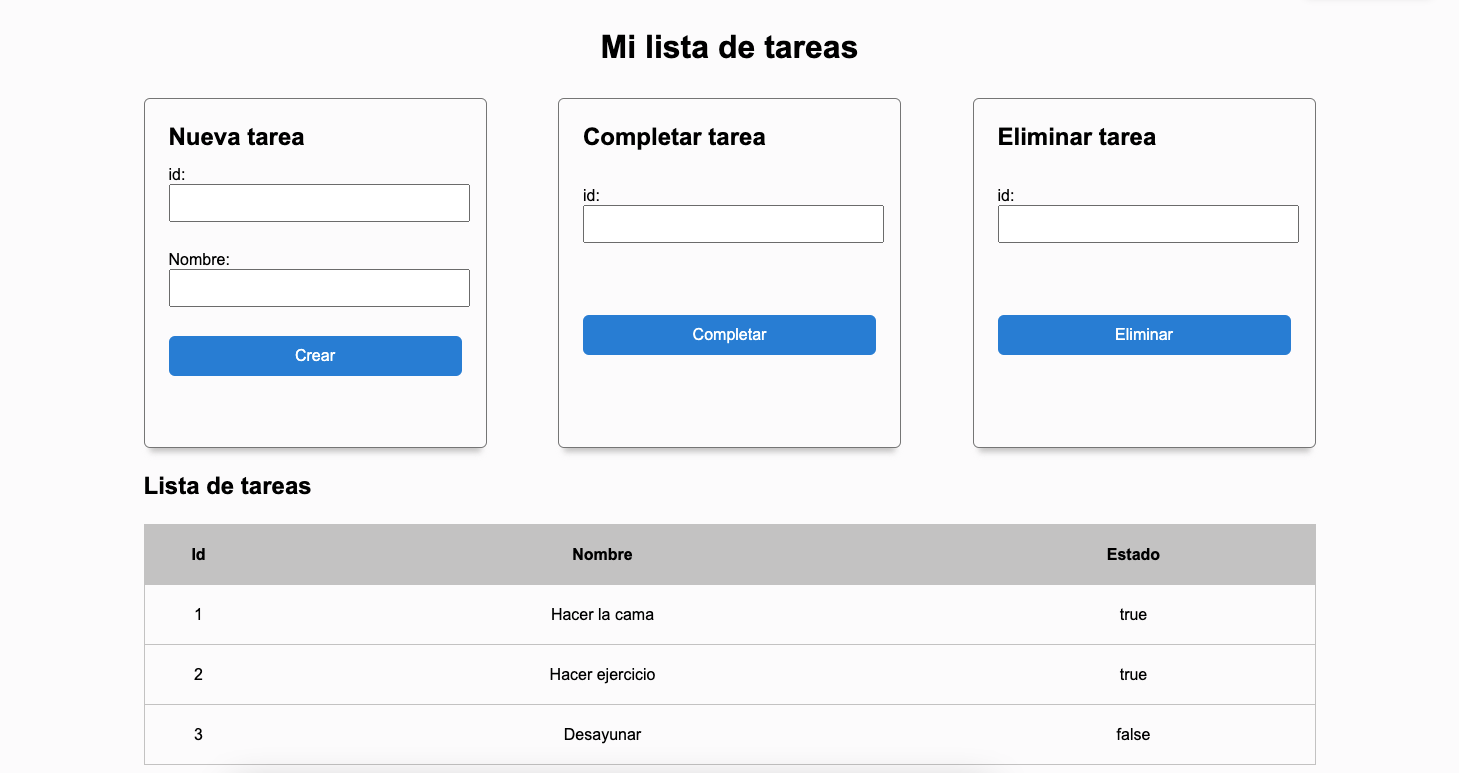
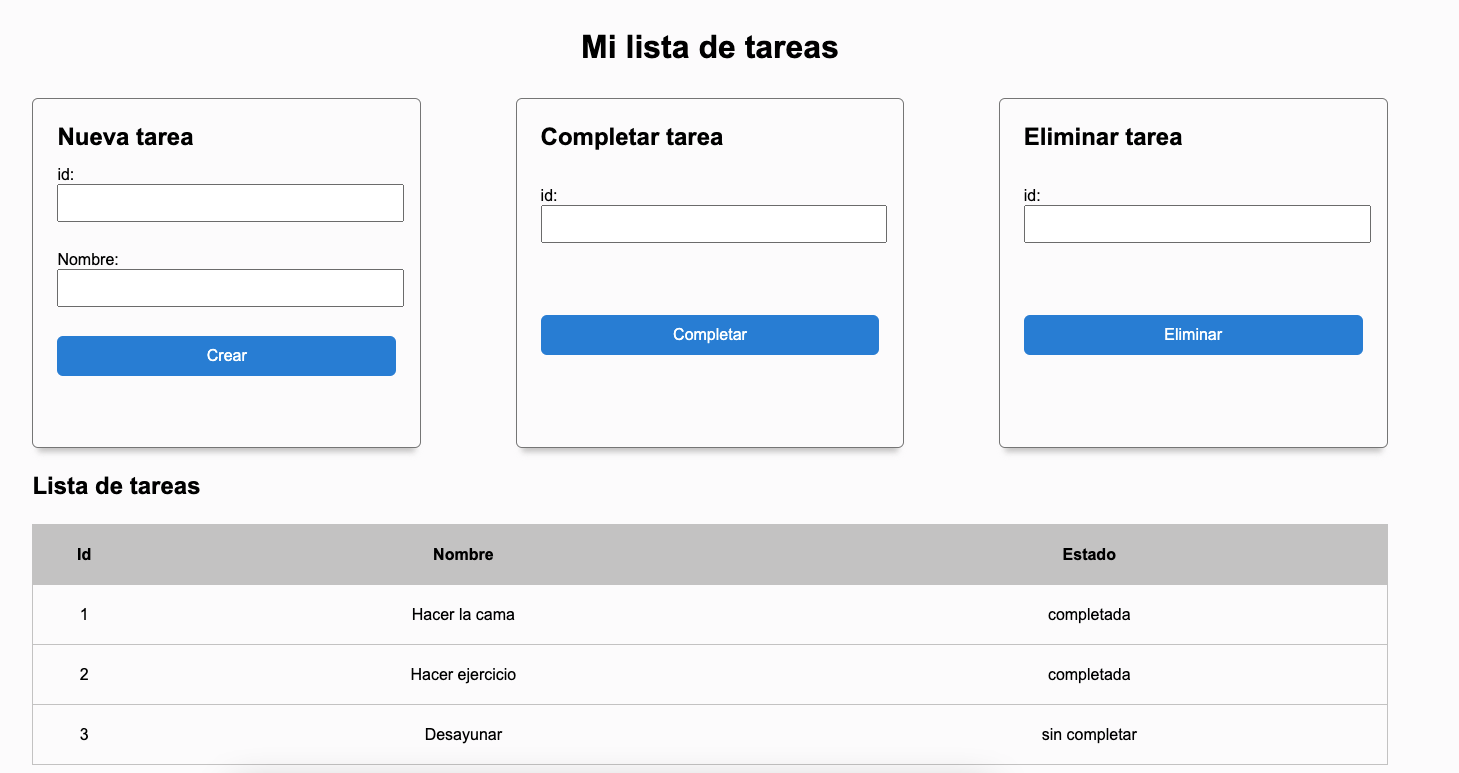
add image to README.md

diff --git a/src/script.js b/src/script.js
@@ -24,7 +24,7 @@ function loadTasksInDOM() {
     tdId.className = 'list-head-item';
     tdName.innerText = task.name;
     tdName.className = 'list-head-item';
-    tdCompleted.innerText = task.completed;
+    tdCompleted.innerText = task.completed ? "completada" : "sin completar";
     tdCompleted.className = 'list-head-item';
 
     tr.appendChild(tdId);
